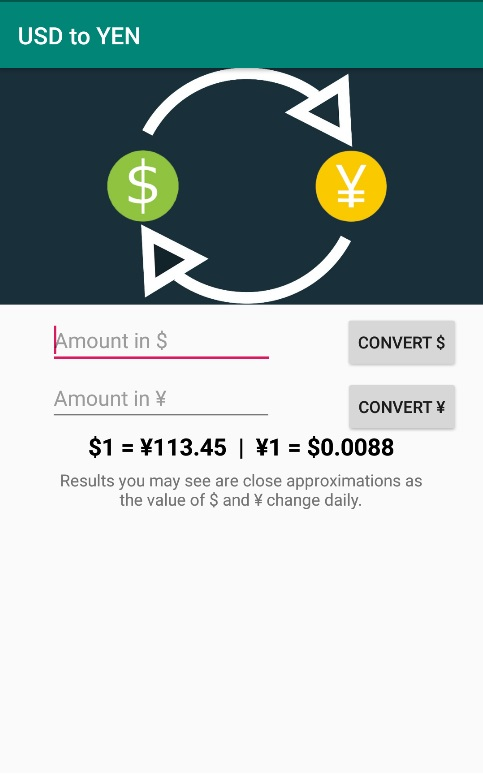
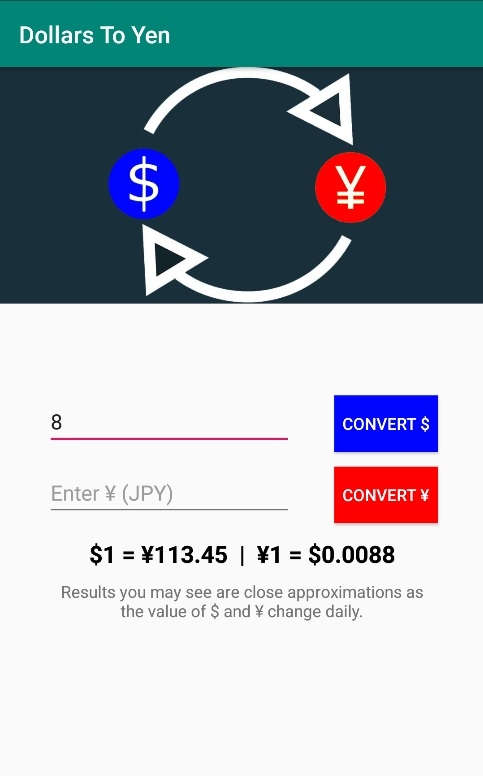
Changed name of android app (USDtoYEN) "Dollars to Yen Currency Converter.  Changes were made to the private policy of the android app, replaced with new images.

diff --git a/privacypolicy.html b/privacypolicy.html
@@ -7,7 +7,7 @@
       <style> body { font-family: 'Helvetica Neue', Helvetica, Arial, sans-serif; padding:1em; } </style>
     </head>
     <body>
-    <h2>Privacy Policy</h2> <p> Adam Kim built the USD to YEN Currency Converter app as an Ad Supported app. This SERVICE is provided by
+    <h2>Privacy Policy</h2> <p> Adam Kim built the Dollars to Yen Currency Converter app as an Ad Supported app. This SERVICE is provided by
                     Adam Kim at no cost and is intended for use as is.
                   </p> <p>This page is used to inform visitors regarding my policies with the collection, use, and disclosure
                     of Personal Information if anyone decided to use my Service.
@@ -16,7 +16,7 @@
                     the Service. I will not use or share your information with anyone except as described
                     in this Privacy Policy.
                   </p> <p>The terms used in this Privacy Policy have the same meanings as in our Terms and Conditions, which is
-                    accessible at USD to YEN Currency Converter unless otherwise defined in this Privacy Policy.
+                    accessible at Dollars to Yen Currency Converter unless otherwise defined in this Privacy Policy.
                   </p> <p><strong>Information Collection and Use</strong></p> <p>For a better experience, while using our Service, I may require you to provide us with certain
                     personally identifiable information. The information that I request will be retained on your device and is not collected by me in any way.
                   </p> <p>The app does use third party services that may collect information used to identify you.</p> <div><p>Link to privacy policy of third party service providers used by the app</p> <ul><li><a href="https://www.google.com/policies/privacy/" target="_blank">Google Play Services</a></li><!----><!----><!----><!----><!----><!----><!----></ul></div> <p><strong>Log Data</strong></p> <p> I want to inform you that whenever you use my Service, in a case of

diff --git a/index.html b/index.html
@@ -259,7 +259,7 @@
 
             <div id="portbox2" class="col-lg-4 col-md-6 portfolio-thumbnail animated wow fadeInLeft">Android Application 
               <a class="popup-img" href="images/portfolio/22.jpg">
-                <img src="images/portfolio/2.jpg" alt="img"><a href="https://play.google.com/store/apps/details?id=com.myapp.akim4.usdtoyen">USD to Yen Currency Converter</a>
+                <img src="images/portfolio/2.jpg" alt="img"><a href="https://play.google.com/store/apps/details?id=com.myapp.akim4.usdtoyen">Dollars to Yen Currency Converter</a>
               </a>
             </div>
 
@@ -323,11 +323,11 @@
                 <div class="timeline-panel">
                       <div class="timeline-heading animated wow fadeIn slow">
                         <h4 class="text-dark">November 2018</h4>
-                        <h4 class="subheading text-dark">USD to YEN Currency Converter</h4><h4 class="subheading">1st Android Application Release</h4>
+                        <h4 class="subheading text-dark">Dollars to Yen Currency Converter</h4><h4 class="subheading">1st Android Application Release</h4>
                       </div>
                       <div class="timeline-body">
                         <p class="text-muted animated wow fadeInRight delay-1s">Official release on the <a href="https://play.google.com/store/apps/details?id=com.myapp.akim4.usdtoyen" style="color:blue">Google Play Store</a>, a simple Android application that
-                           calculates USD to YEN currency conversions. Fetching live API data to keep currency conversion values up to date in real time. (API in progress) </p>
+                           calculates USD and JPY currency conversions. Fetching live API data to keep currency conversion values up to date in real time. (API in progress) </p>
                       </div>
                 </div>
               </li>
